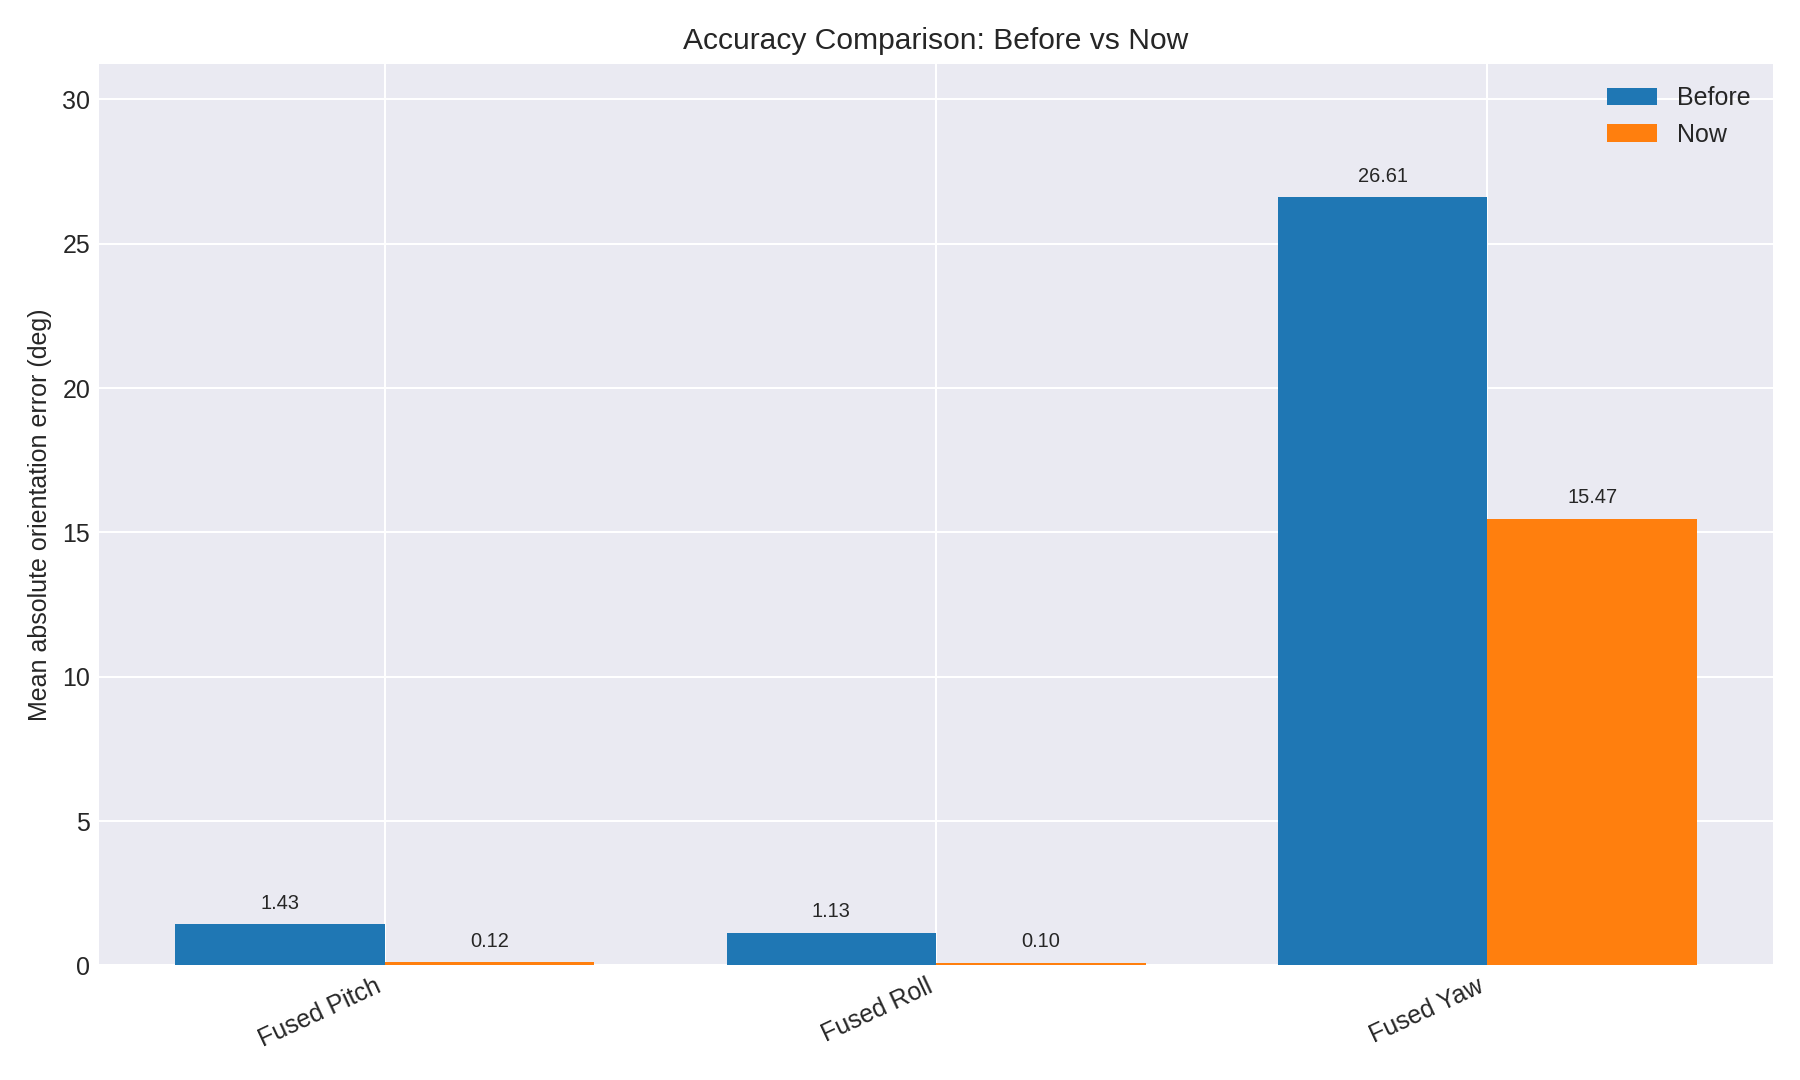
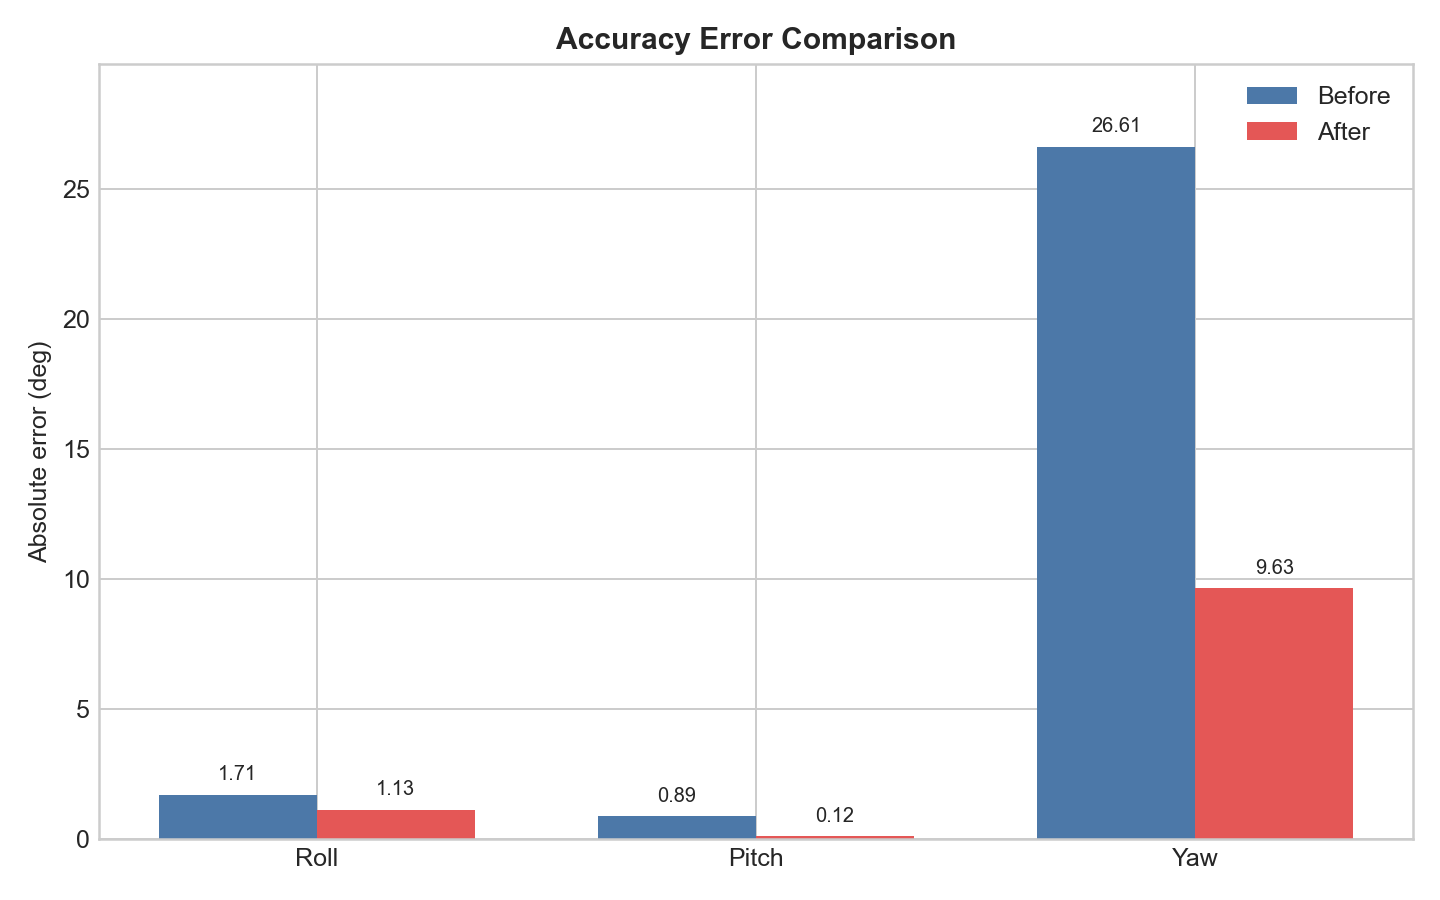
Time Response Graph

diff --git a/src/stewart_control/test/graphical_validation.py b/src/stewart_control/test/graphical_validation.py
@@ -29,6 +29,8 @@ ORIENTATION_TARGET_COLUMNS = (
     ("target_pitch", "measured_pitch"),
     ("target_yaw", "measured_yaw"),
 )
+ORIENTATION_TABLE_ORDER = ["Camera-IMU", "Fusion-Camera", "Fusion-IMU"]
+ORIENTATION_TABLE_AXES = ("roll", "pitch", "yaw")
 
 
 def read_csv_rows(path: Path) -> list[dict[str, str]]:
@@ -151,6 +153,74 @@ def summarize_accuracy_csv(path: Path) -> dict[str, dict[str, float]]:
     }
 
 
+def canonical_comparison_name(value: str) -> str:
+    lowered = value.strip().lower().replace("_", "-").replace(" ", "-")
+    aliases = {
+        "camera-imu": "Camera-IMU",
+        "imu-camera": "Camera-IMU",
+        "fusion-camera": "Fusion-Camera",
+        "camera-fusion": "Fusion-Camera",
+        "fusion-imu": "Fusion-IMU",
+        "imu-fusion": "Fusion-IMU",
+    }
+    return aliases.get(lowered, value.strip())
+
+
+def summarize_orientation_difference_csv(
+    path: Path,
+) -> dict[str, dict[str, float]] | None:
+    values_by_metric: dict[str, dict[str, list[float]]] = defaultdict(
+        lambda: {axis: [] for axis in ORIENTATION_TABLE_AXES}
+    )
+
+    for row in read_csv_rows(path):
+        comparison = None
+        for key in ("comparison", "metric", "name", "sensor_pair", "pair", "label"):
+            value = row.get(key)
+            if value is not None and value.strip():
+                comparison = canonical_comparison_name(value)
+                break
+        if comparison is None:
+            continue
+
+        axis_found = False
+        for axis in ORIENTATION_TABLE_AXES:
+            candidates = (
+                axis,
+                f"{axis}_deg",
+                f"{axis}_error",
+                f"{axis}_error_deg",
+                f"mean_{axis}",
+                f"mean_{axis}_deg",
+            )
+            for key in candidates:
+                parsed = parse_float(row.get(key))
+                if parsed is not None:
+                    values_by_metric[comparison][axis].append(parsed)
+                    axis_found = True
+                    break
+        if axis_found:
+            continue
+
+        axis_label = row.get("axis", "").strip().lower()
+        value = parse_float(row.get("error_deg"))
+        if axis_label in ORIENTATION_TABLE_AXES and value is not None:
+            values_by_metric[comparison][axis_label].append(value)
+
+    if not values_by_metric:
+        return None
+
+    summary: dict[str, dict[str, float]] = {}
+    for comparison, axis_values in values_by_metric.items():
+        if not any(axis_values.values()):
+            continue
+        summary[comparison] = {
+            axis: mean(values) if values else float("nan")
+            for axis, values in axis_values.items()
+        }
+    return summary or None
+
+
 def improvement_percent(before: float, now: float) -> float:
     if not math.isfinite(before) or not math.isfinite(now) or abs(before) < 1e-12:
         return float("nan")
@@ -249,6 +319,88 @@ def plot_comparison(
     plt.close(fig)
 
 
+def plot_orientation_difference_bars(
+    before: dict[str, dict[str, float]],
+    now: dict[str, dict[str, float]],
+    output_path: Path,
+) -> None:
+    axes_order = [("roll", "Roll"), ("pitch", "Pitch"), ("yaw", "Yaw")]
+    comparison = "Fusion-IMU" if "Fusion-IMU" in before or "Fusion-IMU" in now else None
+    if comparison is None:
+        comparison = common_order(before, now, ORIENTATION_TABLE_ORDER)[0]
+
+    labels = [axis_label for _, axis_label in axes_order]
+    before_values = [
+        abs(before.get(comparison, {}).get(axis_key, float("nan")))
+        for axis_key, _ in axes_order
+    ]
+    now_values = [
+        abs(now.get(comparison, {}).get(axis_key, float("nan")))
+        for axis_key, _ in axes_order
+    ]
+    x_values = list(range(len(labels)))
+    width = 0.36
+    before_color = "#4c78a8"
+    now_color = "#e45756"
+
+    plt.style.use("seaborn-v0_8-whitegrid")
+    fig, ax = plt.subplots(figsize=(8, 5))
+    ax.set_title("Accuracy Error Comparison", fontweight="bold")
+
+    finite_values = [
+        value for value in before_values + now_values if math.isfinite(value)
+    ]
+    max_value = max(finite_values, default=1.0)
+    label_offset = max(max_value * 0.015, 0.05)
+
+    ax.bar(
+        [x - width / 2 for x in x_values],
+        before_values,
+        width,
+        label="Before",
+        color=before_color,
+    )
+    ax.bar(
+        [x + width / 2 for x in x_values],
+        now_values,
+        width,
+        label="After",
+        color=now_color,
+    )
+
+    for x, value in zip([x - width / 2 for x in x_values], before_values):
+        if math.isfinite(value):
+            ax.text(
+                x,
+                value + label_offset,
+                f"{value:.2f}",
+                ha="center",
+                va="bottom",
+                fontsize=8,
+            )
+
+    for x, value in zip([x + width / 2 for x in x_values], now_values):
+        if math.isfinite(value):
+            ax.text(
+                x,
+                value + label_offset,
+                f"{value:.2f}",
+                ha="center",
+                va="bottom",
+                fontsize=8,
+            )
+
+    ax.set_ylabel("Absolute error (deg)")
+    ax.set_xticks(x_values)
+    ax.set_xticklabels(labels)
+    ax.legend(loc="upper right")
+    ax.set_ylim(0, max_value + label_offset * 8)
+    fig.tight_layout()
+    output_path.parent.mkdir(parents=True, exist_ok=True)
+    fig.savefig(output_path, dpi=180)
+    plt.close(fig)
+
+
 def print_summary(title: str, before: dict, now: dict, order: list[str]) -> None:
     print()
     print(title)
@@ -262,6 +414,29 @@ def print_summary(title: str, before: dict, now: dict, order: list[str]) -> None
             f"{label:<28} before={before_mean:9.3f}  "
             f"now={now_mean:9.3f}  improvement={change:7.2f}%"
         )
+
+
+def print_orientation_summary(
+    title: str,
+    before: dict[str, dict[str, float]],
+    now: dict[str, dict[str, float]],
+    order: list[str],
+) -> None:
+    print()
+    print(title)
+    print("-" * len(title))
+    comparison = "Fusion-IMU" if "Fusion-IMU" in before or "Fusion-IMU" in now else order[0]
+    before_row = before.get(comparison, {})
+    now_row = now.get(comparison, {})
+    before_text = "  ".join(
+        f"{axis}={abs(before_row.get(axis, float('nan'))):8.2f}"
+        for axis in ORIENTATION_TABLE_AXES
+    )
+    now_text = "  ".join(
+        f"{axis}={abs(now_row.get(axis, float('nan'))):8.2f}"
+        for axis in ORIENTATION_TABLE_AXES
+    )
+    print(f"{comparison:<16} before[{before_text}]  after[{now_text}]")
 
 
 def parse_args() -> argparse.Namespace:
@@ -298,21 +473,21 @@ def parse_args() -> argparse.Namespace:
 
 def demo_data():
     before_accuracy = {
-        "Fused Roll": {"mean": 1.13},
-        "Fused Pitch": {"mean": 1.43},
-        "Fused Yaw": {"mean": 26.61},
+        "Camera-IMU": {"roll": 6.10, "pitch": 0.25, "yaw": 169.38},
+        "Fusion-Camera": {"roll": -4.97, "pitch": -0.37, "yaw": -142.77},
+        "Fusion-IMU": {"roll": 1.71, "pitch": 0.89, "yaw": 26.61},
     }
     now_accuracy = {
-        "Fused Roll": {"mean": 0.10},
-        "Fused Pitch": {"mean": 0.12},
-        "Fused Yaw": {"mean": 15.47},
+        "Camera-IMU": {"roll": -3.74, "pitch": -1.67, "yaw": -18.79},
+        "Fusion-Camera": {"roll": 2.03, "pitch": 0.78, "yaw": 9.16},
+        "Fusion-IMU": {"roll": 1.13, "pitch": 0.12, "yaw": -9.63},
     }
     before_time = {
         "aruco_to_fusion_pose": {"mean": 95.0},
         "fusion_pose_to_command": {"mean": 42.0},
         "aruco_to_command": {"mean": 135.0},
         "command_to_feedback": {"mean": 165.0},
-        "aruco_to_feedback": {"mean": 295.0},
+        "aruco_to_feedback": {"mean": 295.0}, 
     }
     now_time = {
         "aruco_to_fusion_pose": {"mean": 58.0},
@@ -343,24 +518,42 @@ def main() -> int:
 
         before_time = summarize_time_csv(args.before_time)
         now_time = summarize_time_csv(args.now_time)
-        before_accuracy = summarize_accuracy_csv(args.before_accuracy)
-        now_accuracy = summarize_accuracy_csv(args.now_accuracy)
+        before_accuracy = summarize_orientation_difference_csv(
+            args.before_accuracy
+        ) or summarize_accuracy_csv(args.before_accuracy)
+        now_accuracy = summarize_orientation_difference_csv(
+            args.now_accuracy
+        ) or summarize_accuracy_csv(args.now_accuracy)
 
     latency_order = list(LATENCY_LABELS)
+    orientation_bar_mode = all(
+        isinstance(row, dict) and any(axis in row for axis in ORIENTATION_TABLE_AXES)
+        for row in list(before_accuracy.values()) + list(now_accuracy.values())
+    )
     accuracy_order = common_order(before_accuracy, now_accuracy)
 
     accuracy_output = args.output_dir / "accuracy_comparison.png"
     response_output = args.output_dir / "response_time_comparison.png"
 
-    plot_comparison(
-        before_accuracy,
-        now_accuracy,
-        accuracy_output,
-        "Accuracy Comparison: Before vs Now",
-        f"Mean absolute {args.accuracy_unit}",
-        preferred_order=accuracy_order,
-        annotation_mode="value",
-    )
+    if orientation_bar_mode:
+        plot_orientation_difference_bars(before_accuracy, now_accuracy, accuracy_output)
+        print_orientation_summary(
+            "Accuracy",
+            before_accuracy,
+            now_accuracy,
+            common_order(before_accuracy, now_accuracy, ORIENTATION_TABLE_ORDER),
+        )
+    else:
+        plot_comparison(
+            before_accuracy,
+            now_accuracy,
+            accuracy_output,
+            "Accuracy Comparison: Before vs Now",
+            f"Mean absolute {args.accuracy_unit}",
+            preferred_order=accuracy_order,
+            annotation_mode="value",
+        )
+        print_summary("Accuracy", before_accuracy, now_accuracy, accuracy_order)
     plot_comparison(
         before_time,
         now_time,
@@ -369,8 +562,6 @@ def main() -> int:
         "Mean latency (ms)",
         preferred_order=latency_order,
     )
-
-    print_summary("Accuracy", before_accuracy, now_accuracy, accuracy_order)
     print_summary(
         "Response Time",
         before_time,
